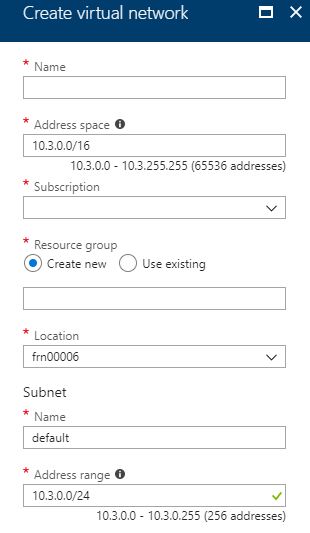
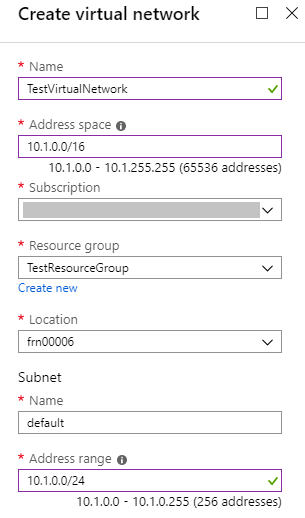
Updated screenshots & subsequent wording associated.

diff --git a/articles/azure/azs-how-create-load-balancer.md b/articles/azure/azs-how-create-load-balancer.md
@@ -98,7 +98,7 @@ In this section we will create a virtual network and two virtual machines which 
 
    - **Subscription** - This is your UKCloud for Microsoft Azure subscription and will be pre-populated by default.
 
-   - **Resource Group** - Select an existing resource group, or create a new one by typing a name for your new resource group.
+   - **Resource Group** - Select an existing resource group, or create a new one by clicking the **Create new** link and then typing a name for your new resource group in the pop out window.
 
    - **Location** - This will be `frn00006`, which is the location of the Azure Stack Hub.
 
